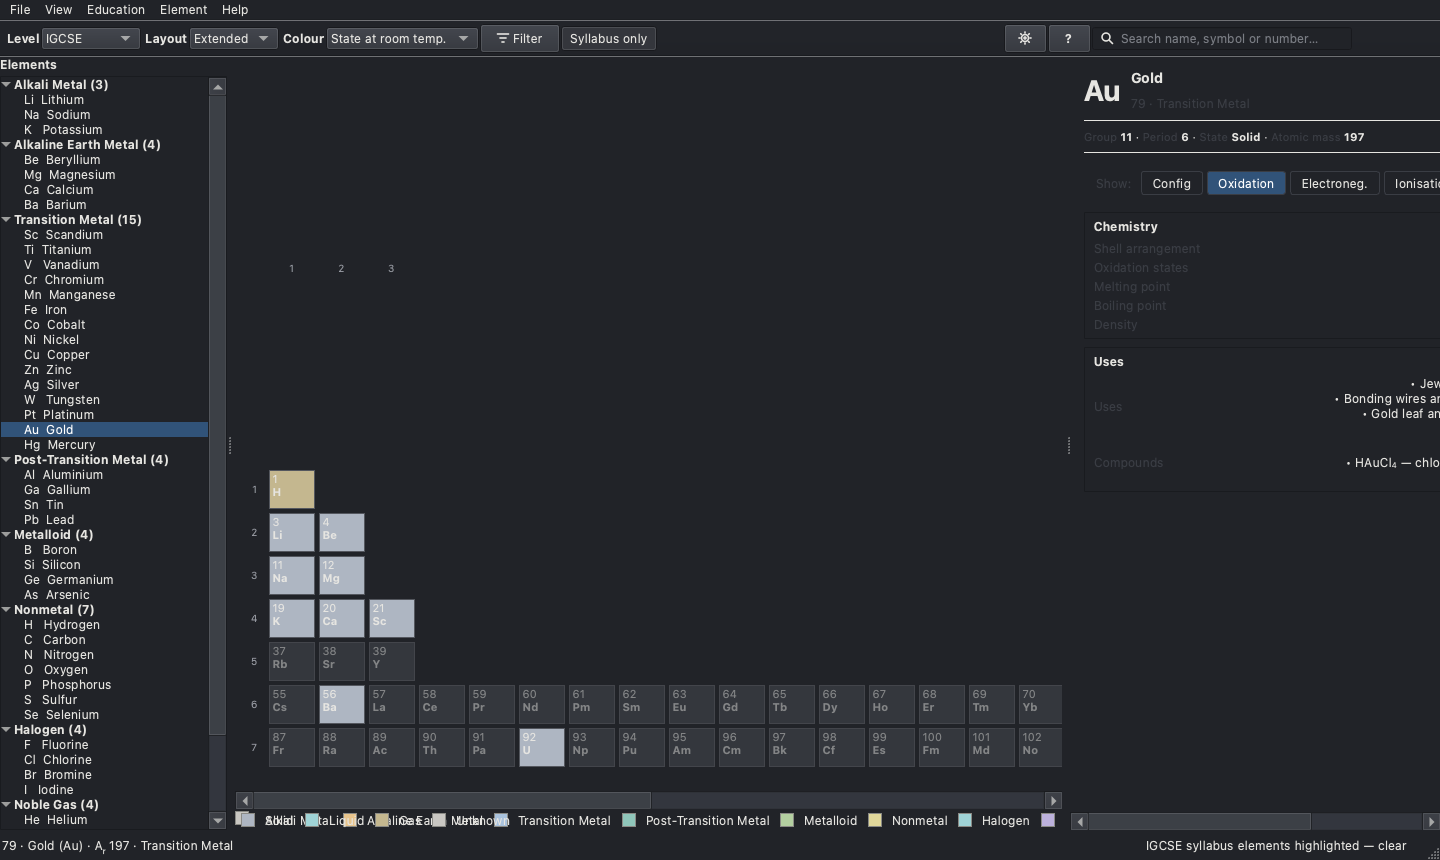
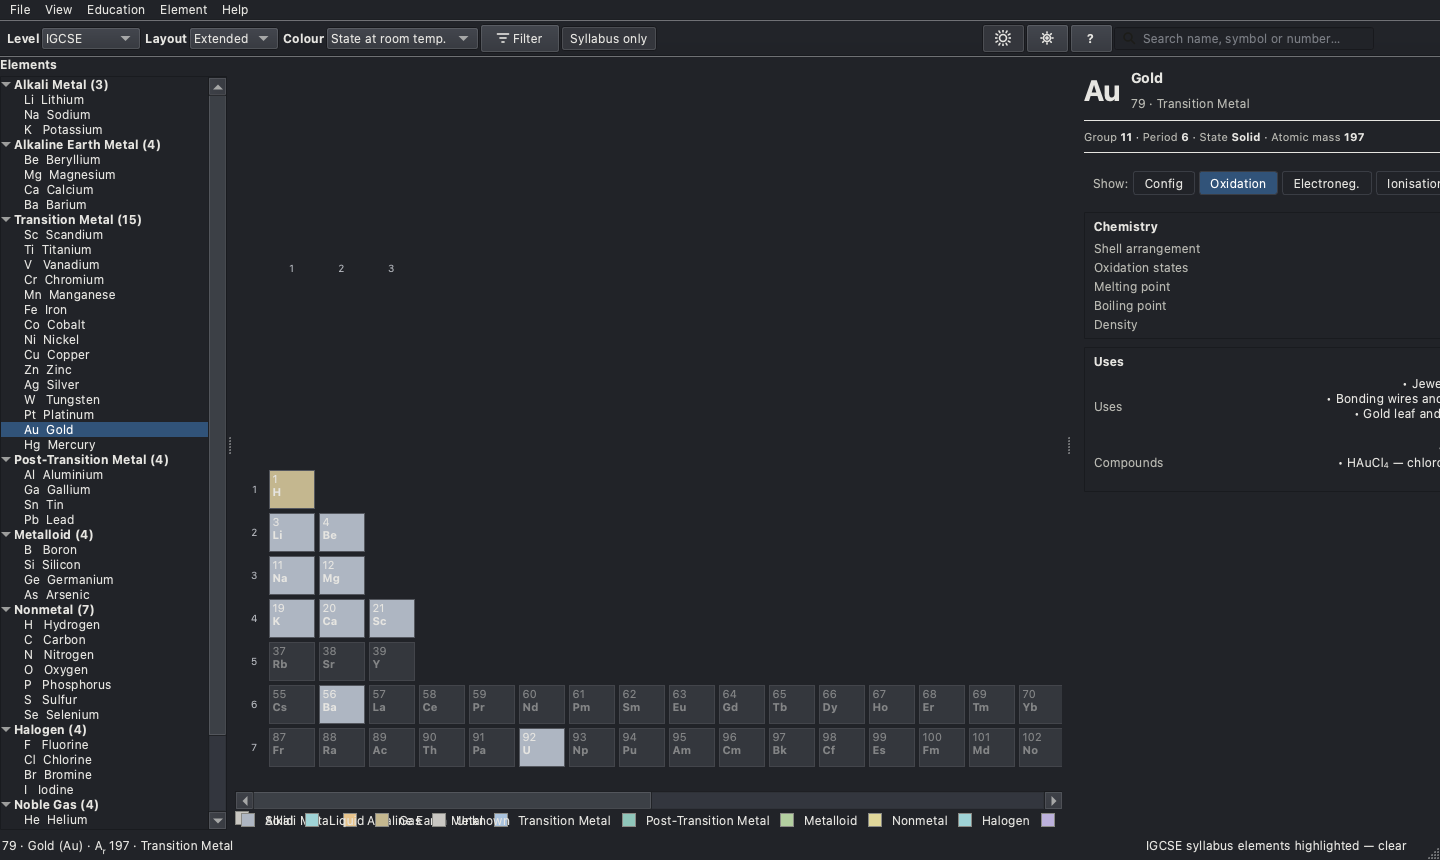
fix: readable text contrast (proper secondary colour, no palette(mid) text), visible light/dark toggle, panel scrolls vertically never horizontally, resizable at small window sizes

diff --git a/orbital/ui/main_window.py b/orbital/ui/main_window.py
@@ -29,7 +29,7 @@ from orbital.ui.settings_dialog import SettingsDialog
 from orbital.ui.setup_dialog import SetupDialog
 from orbital.ui.sidebar import Sidebar
 from orbital.ui.table_view import TableView
-from orbital.ui.theme import apply_theme
+from orbital.ui.theme import apply_theme, is_dark_theme as is_dark_now
 from orbital.formatting import field_value
 
 
@@ -47,7 +47,7 @@ class MainWindow(QMainWindow):
 
         self.setWindowTitle("Orbital")
         self.resize(1280, 800)
-        self.setMinimumSize(980, 560)
+        self.setMinimumSize(680, 460)
 
         self._build_ui()
         self._build_menus()
@@ -128,6 +128,13 @@ class MainWindow(QMainWindow):
         spacer.setSizePolicy(QSizePolicy.Expanding, QSizePolicy.Preferred)
         self.toolbar.addWidget(spacer)
 
+        self.theme_button = QPushButton(_icon("moon"), "")
+        self.theme_button.setCheckable(True)
+        self.theme_button.setToolTip(
+            "Toggle dark mode (View menu adds a System option)")
+        self.theme_button.toggled.connect(self._on_theme_button)
+        self.toolbar.addWidget(self.theme_button)
+
         self.settings_button = QPushButton(_icon("settings"), "")
         self.settings_button.setToolTip("Settings (Ctrl+,)")
         self.settings_button.clicked.connect(self._open_settings)
@@ -152,8 +159,8 @@ class MainWindow(QMainWindow):
         self.sidebar = Sidebar(self.elements, self.color_modes)
         self.sidebar.element_selected.connect(
             lambda n: self.select_element(n, scroll=True))
-        self.sidebar.setMinimumWidth(150)
-        self.sidebar.setMaximumWidth(230)
+        self.sidebar.setMinimumWidth(140)
+        self.sidebar.setMaximumWidth(420)
         self.splitter.addWidget(self.sidebar)
 
         centre = QWidget()
@@ -173,7 +180,8 @@ class MainWindow(QMainWindow):
         self.splitter.addWidget(centre)
 
         self.panel = DetailPanel(self.settings)
-        self.panel.setMinimumWidth(260)
+        self.panel.setMinimumWidth(230)
+        self.panel.setMaximumWidth(520)
         self.panel.compare_requested.connect(self._add_to_compare)
         self.splitter.addWidget(self.panel)
 
@@ -365,6 +373,16 @@ class MainWindow(QMainWindow):
         self.filter_button.setIcon(_icon("filter"))
         self.settings_button.setIcon(_icon("settings"))
         self.help_button.setIcon(_icon("help"))
+        dark = is_dark_now()
+        self._block(self.theme_button,
+                    lambda: self.theme_button.setChecked(dark))
+        self.theme_button.setIcon(_icon("sun" if dark else "moon"))
+
+    def _on_theme_button(self, on):
+        self._set_theme("dark" if on else "light")
+
+    def _refresh_theme_button(self):
+        pass
         for action in (self.search_box.edit.actions()
                        if hasattr(self.search_box, "edit") else []):
             self.search_box.edit.removeAction(action)

diff --git a/orbital/ui/detail_panel.py b/orbital/ui/detail_panel.py
@@ -153,6 +153,7 @@ class DetailPanel(QWidget):
         self._scroll = QScrollArea()
         self._scroll.setWidgetResizable(True)
         self._scroll.setFrameShape(QFrame.NoFrame)
+        self._scroll.setHorizontalScrollBarPolicy(Qt.ScrollBarAlwaysOff)
         self._root.addWidget(self._scroll)
 
         self.welcome = WelcomeView()
@@ -174,7 +175,7 @@ class DetailPanel(QWidget):
         row = QHBoxLayout()
         row.setSpacing(4)
         lead = QLabel("Show:")
-        lead.setStyleSheet("color: palette(mid); padding-right: 2px;")
+        lead.setProperty("muted", True)
         row.addWidget(lead)
         for fid in TOGGLEABLE_FIELDS + ["history"]:
             chip = QToolButton()
@@ -259,7 +260,7 @@ class DetailPanel(QWidget):
         nf.setPointSizeF(nf.pointSizeF() * 1.2)
         name.setFont(nf)
         subtitle = QLabel("%d \u00b7 %s" % (element.number, element.category.title()))
-        subtitle.setStyleSheet("color: palette(mid);")
+        subtitle.setProperty("muted", True)
         namebox.addWidget(name)
         namebox.addWidget(subtitle)
         head.addLayout(namebox, 1)
@@ -330,6 +331,8 @@ class DetailPanel(QWidget):
         include = [f for f in order if f in essentials]
         if not include:
             return ""
+        from orbital.ui.theme import is_dark_theme, LIGHT, DARK
+        secondary = (DARK if is_dark_theme() else LIGHT).secondary_text.name()
         parts = []
         for fid in include:
             value = field_value(element, fid, igcse=(level == "igcse"))
@@ -337,14 +340,15 @@ class DetailPanel(QWidget):
                 continue
             label = field_label(fid)
             parts.append(
-                '<span style="color:palette(mid);">%s</span> <b>%s</b>'
-                % (label, value))
+                '<span style="color:%s;">%s</span> <b>%s</b>'
+                % (secondary, label, value))
         return "  \u00b7  ".join(parts)
 
     def _field_row(self, label, value, fid):
         row = QHBoxLayout()
         lab = QLabel(label)
-        lab.setStyleSheet("color: palette(mid); padding-right: 8px;")
+        lab.setProperty("muted", True)
+        lab.setStyleSheet("padding-right: 8px;")
         lab.setWordWrap(True)
         row.addWidget(lab, 1)
         if isinstance(value, tuple):

diff --git a/tests/test_ui.py b/tests/test_ui.py
@@ -286,3 +286,58 @@ def test_igcse_focus_highlights_syllabus_elements(win, qapp):
     win._set_level("general")
     qapp.processEvents()
     assert not win.focus_button.isVisibleTo(win)
+
+
+def test_theme_toggle_button(win, qapp):
+    from orbital.ui.theme import is_dark_theme
+    assert not is_dark_theme()  # test fixture runs light
+    assert not win.theme_button.icon().isNull()
+    win.theme_button.setChecked(True)
+    qapp.processEvents()
+    assert win.settings.get("theme") == "dark"
+    assert is_dark_theme()
+    assert not win.theme_button.icon().isNull()  # sun icon redrawn
+    win.theme_button.setChecked(False)
+    qapp.processEvents()
+    assert win.settings.get("theme") == "light"
+    assert not is_dark_theme()
+
+
+def test_detail_panel_never_scroll_horizontally(win, qapp):
+    from PySide6.QtCore import Qt
+    win.select_element(26)
+    qapp.processEvents()
+    policy = win.panel._scroll.horizontalScrollBarPolicy()
+    assert policy == Qt.ScrollBarAlwaysOff
+    # narrow the panel aggressively: content must wrap, not widen
+    win.splitter.setSizes([140, 700, 120])
+    qapp.processEvents()
+    bar = win.panel._scroll.horizontalScrollBar()
+    assert bar.maximum() == 0 or not bar.isVisible()
+
+
+def test_muted_labels_use_readable_colour(win, qapp):
+    from PySide6.QtWidgets import QLabel
+    from orbital.ui.theme import LIGHT, is_dark_theme
+    win.select_element(26)
+    qapp.processEvents()
+    page = win.panel._scroll.widget()
+    muted = [l for l in page.findChildren(QLabel)
+             if l.property("muted") is True]
+    assert muted, "expected muted labels on the detail page"
+    expected = (LIGHT if not is_dark_theme() else
+                __import__("orbital.ui.theme", fromlist=["DARK"]).DARK).secondary_text
+    # the app stylesheet applies the colour; assert the rule exists
+    from PySide6.QtWidgets import QApplication
+    qss = QApplication.instance().styleSheet()
+    assert expected.name().lower() in qss.lower()
+
+
+def test_window_resizes_small(win, qapp):
+    win.resize(680, 460)
+    qapp.processEvents()
+    assert win.table._scroll.viewport().width() > 200
+    # tiles still all present and clickable
+    assert len(win.table.tiles) == 118
+    win.resize(1280, 800)
+    qapp.processEvents()

diff --git a/orbital/ui/theme.py b/orbital/ui/theme.py
@@ -14,7 +14,8 @@ from PySide6.QtWidgets import QApplication, QWidget
 class Palette:
     def __init__(self, base, text, window, bright_text, link,
                  button, button_text, highlight, highlighted_text,
-                 mid, light, dark, disabled_text, tile_base, border):
+                 mid, light, dark, disabled_text, tile_base, border,
+                 secondary_text):
         self.base = QColor(base)
         self.text = QColor(text)
         self.window = QColor(window)
@@ -30,6 +31,7 @@ class Palette:
         self.disabled_text = QColor(disabled_text)
         self.tile_base = QColor(tile_base)
         self.border = QColor(border)
+        self.secondary_text = QColor(secondary_text)
 
 
 LIGHT = Palette(
@@ -38,6 +40,7 @@ LIGHT = Palette(
     highlight="#d8e2ee", highlighted_text="#10151c",
     mid="#c9c7c2", light="#e2e0dc", dark="#a8a49d",
     disabled_text="#9b9891", tile_base="#ffffff", border="#c5c2bc",
+    secondary_text="#51504a",
 )
 
 DARK = Palette(
@@ -46,6 +49,7 @@ DARK = Palette(
     highlight="#3a4553", highlighted_text="#f2f6fa",
     mid="#3a3d44", light="#42454c", dark="#131418",
     disabled_text="#7a7d84", tile_base="#2a2d33", border="#3d4046",
+    secondary_text="#b9b9b2",
 )
 
 
@@ -95,19 +99,22 @@ def apply_theme(theme: str, accent_hex: str):
     app.setPalette(pal)
     app.setStyleSheet("")
 
-    # tiny global QSS: focus rings and tab order clarity only
-    is_dark_flag = is_dark
+    # tiny global QSS: focus rings, and a readable "muted text" class.
+    # Labels set property("muted", True) and get a dark secondary colour
+    # (palette(mid) is a border grey — never text).
     app.setStyleSheet(
+        "*[muted=\"true\"] {{ color: {secondary}; }}"
         "QMenu::item:disabled {{ color: {disabled}; }}"
         "QLineEdit:focus, QComboBox:focus, QSpinBox:focus {{ border: 1px solid {accent}; }}"
         "QToolTip {{ border: 1px solid {border}; padding: 3px; }}"
         .format(
+            secondary=pal_src.secondary_text.name(),
             disabled=pal_src.disabled_text.name(),
             accent=accent.name(),
             border=pal_src.border.name(),
         )
     )
-    return is_dark_flag
+    return is_dark
 
 
 def is_dark_theme() -> bool:

diff --git a/scripts/interaction_audit.py b/scripts/interaction_audit.py
@@ -443,6 +443,33 @@ def settings_reset():
 
 check("settings: reset restores defaults", settings_reset)
 
+
+def theme_button():
+    from orbital.ui.theme import is_dark_theme
+    assert not is_dark_theme()
+    win.theme_button.setChecked(True)
+    app.processEvents()
+    assert is_dark_theme() and win.settings.get("theme") == "dark"
+    win.theme_button.setChecked(False)
+    app.processEvents()
+    assert not is_dark_theme()
+
+
+check("toolbar: light/dark toggle", theme_button)
+
+
+def resize_flow():
+    win.resize(680, 460)
+    app.processEvents()
+    assert len(win.table.tiles) == 118
+    from PySide6.QtCore import Qt
+    assert win.panel._scroll.horizontalScrollBarPolicy() == Qt.ScrollBarAlwaysOff
+    win.resize(1440, 860)
+    app.processEvents()
+
+
+check("window: resizes small, panel never scrolls horizontally", resize_flow)
+
 # --------------------------------------------------------------------------
 print()
 print("=== %d passed, %d failed ===" % (len(PASS), len(FAIL)))

diff --git a/orbital/ui/setup_dialog.py b/orbital/ui/setup_dialog.py
@@ -48,7 +48,7 @@ class SetupDialog(QDialog):
 
         note = QLabel("You can change this any time from the Level menu "
                       "or Settings.")
-        note.setStyleSheet("color: palette(mid);")
+        note.setProperty("muted", True)
         lay.addWidget(note)
 
         box = QGroupBox()
@@ -64,7 +64,8 @@ class SetupDialog(QDialog):
             radio.setFont(rf)
             desc = QLabel(description)
             desc.setWordWrap(True)
-            desc.setStyleSheet("color: palette(mid); margin-left: 20px;")
+            desc.setProperty("muted", True)
+            desc.setStyleSheet("margin-left: 20px;")
             radio.setChecked(lid == current)
             self.radios[lid] = radio
             box_lay.addWidget(radio)

diff --git a/orbital/ui/icons.py b/orbital/ui/icons.py
@@ -44,6 +44,16 @@ def icon(name: str, size: int = 16) -> QIcon:
             b = t.map(QPointF(0, -5.0)) + QPointF(8, 8)
             p.drawLine(a, b)
         p.drawEllipse(QRectF(7.0, 7.0, 2.0, 2.0))
+    elif name == "sun":
+        p.drawEllipse(QRectF(4.5, 4.5, 7.0, 7.0))
+        for angle in range(0, 360, 30):
+            t = QTransform()
+            t.rotate(angle)
+            a = t.map(QPointF(0, -8.0)) + QPointF(8, 8)
+            b = t.map(QPointF(0, -6.2)) + QPointF(8, 8)
+            p.drawLine(a, b)
+    elif name == "moon":
+        p.drawArc(QRectF(3.5, 2.5, 10.0, 11.0), 30 * 16, 300 * 16)
     elif name == "help":
         f = p.font()
         f.setBold(True)

diff --git a/orbital/ui/compare_dialog.py b/orbital/ui/compare_dialog.py
@@ -30,7 +30,7 @@ class CompareDialog(QDialog):
 
         hint = QLabel("Add elements with right-click \u2192 'Add to comparison', "
                       "or 'Compare\u2026' on an element. Up to %d elements." % MAX_COMPARE)
-        hint.setStyleSheet("color: palette(mid);")
+        hint.setProperty("muted", True)
         lay.addWidget(hint)
 
         btns = QHBoxLayout()

diff --git a/orbital/ui/table_view.py b/orbital/ui/table_view.py
@@ -37,7 +37,7 @@ class _HeaderLabel(QLabel):
         f = QFont(self.font())
         f.setPointSizeF(max(7.5, f.pointSizeF() * 0.85))
         self.setFont(f)
-        self.setStyleSheet("color: %s;" % ("#8a8780" if not is_dark_theme() else "#9a9da5"))
+        self.setStyleSheet("color: %s;" % ("#5c5a53" if not is_dark_theme() else "#b5b8be"))
 
 
 class TableView(QWidget):
